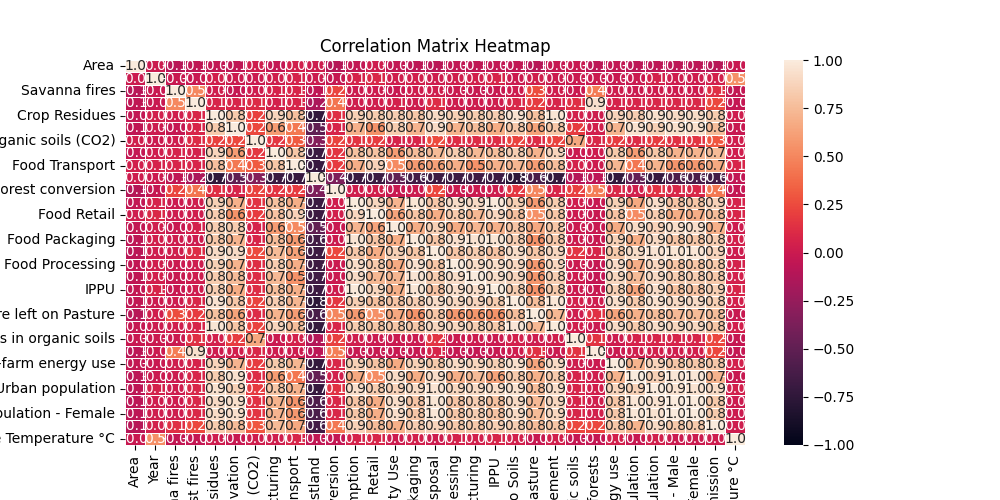
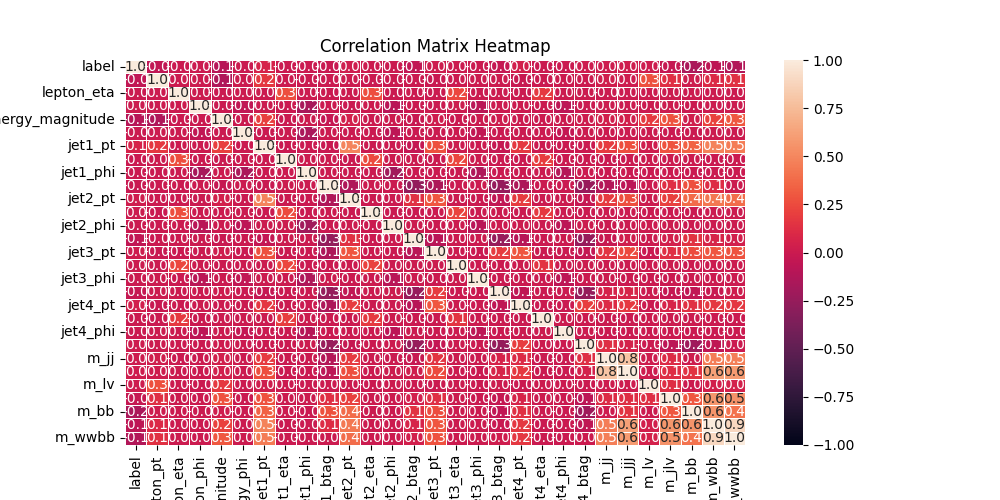
repo cleaned

diff --git a/Helpers/data_extract_and_preprocessing.py b/Helpers/data_extract_and_preprocessing.py
@@ -5,7 +5,7 @@ path_ = DATASET_PATH
 class DATA:
     def __init__(self):
         self.path = path_
-        columns = [
+        self.columns = [
             "label",
             "lepton_pt", "lepton_eta", "lepton_phi",
             "missing_energy_magnitude", "missing_energy_phi",
@@ -17,9 +17,10 @@ class DATA:
         ]
 
         self.data = pd.read_csv(
-            path_,
-            names=columns,
-            header=None
+            self.path,
+            names=self.columns,
+            header=None,
+            dtype="float32"
         )
 
     def head(self):
@@ -32,24 +33,20 @@ class DATA:
         return print(self.data.isnull().sum())
 
     def calc_corr(self):
-        pass
+        corr_ = self.data.corr()
+        return corr_
 
     def print_corr(self):
-        pass
-
+        print(self.calc_corr()["label"].sort_values(ascending=True))
 
     # Final Data Return
 
     def return_data(self):
         return self.data
 
-
-
-
-
 if __name__ == "__main__":
     data =DATA()
-    data.return_data()
+    data.null_data()
     data.print_data_col()
     data.head()
     data.print_corr()

diff --git a/Definitions/constants.py b/Definitions/constants.py
@@ -2,8 +2,14 @@ from pathlib import Path
 
 ROOT_DIR = Path(__file__).resolve().parent.parent
 
-DATASET_PATH = ROOT_DIR / "Dataset/HIGGS.csv" / "HIGGS.csv"
+DATASET_PATH = ROOT_DIR / "Dataset" / "HIGGS_500k.csv"
 
 RESULTS_DIR = ROOT_DIR / "Results"
 
 MODELS_DIR = ROOT_DIR / "ML_Model"
+
+OUTPUT_DIR_p = ROOT_DIR / "Plots" / "preprocessingHeatmap"
+OUTPUT_DIR_rf = ROOT_DIR / "Plots" / "plots"
+OUTPUT_DIR_lr = ROOT_DIR / "Plots" / "plots"
+OUTPUT_DIR_ = ROOT_DIR / "Plots" / "plots"
+

diff --git a/Helpers/plotters.py b/Helpers/plotters.py
@@ -1,5 +1,6 @@
 import seaborn as sns
 import matplotlib.pyplot as plt
+from Definitions.constants import OUTPUT_DIR_p
 
 from Helpers.data_extract_and_preprocessing import DATA
 
@@ -19,7 +20,7 @@ class PLOT:
             linewidths=0.5,
             )
         plt.title("Correlation Matrix Heatmap")
-        plt.savefig("Plots/preprocessingHeatmap/heatmap.png")
+        plt.savefig(OUTPUT_DIR_p/"heatmap.png")
         plt.show()
 
 if __name__ == "__main__":